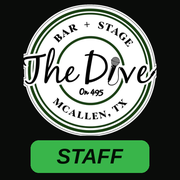
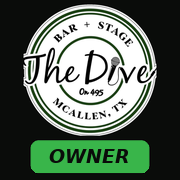
Owner list moves to /owner (old /staff redirects), group pages at /links/*, shared starting PIN with pick-your-name sign-in
Claude-Session: https://claude.ai/code/session_01X2WyYbJqvK9BdpUrXaAFZn

Changed region(s): [[0.25, 0.8056, 0.7222, 0.9167], [0.7778, 0.9444, 0.8056, 0.9722], [0.1944, 0.9444, 0.2222, 0.9722]]

diff --git a/server.js b/server.js
@@ -79,7 +79,7 @@ app.use(async (req, res, next) => {
   if (/^\/(setup|api\/setup|api\/billing|terms|logo\.png|[\w-]*icon[\w-]*\.png|[\w-]*apple-touch-icon\.png|[\w-]*manifest\.json|m\/|healthz)/.test(req.path)) return next();
   if (planSummary(t).active) return next();
   if (req.path.startsWith("/api/")) return res.status(402).json({ error: "inactive", message: "This karaoke system isn't active right now. Ask the host." });
-  if (/^\/(kj|stats|ads|history|staff|wheel|tv|tent|poster)\b/.test(req.path)) return res.redirect(BASE() + "/setup");
+  if (/^\/(kj|stats|ads|history|staff|owner|links|wheel|tv|tent|poster)\b/.test(req.path)) return res.redirect(BASE() + "/setup");
   res.status(402).type("html").send(simplePage(t.name, `<img src="${BASE()}/logo.png" alt=""><h1>${esc(t.name)}</h1><p>Karaoke sign-up isn't open right now. Ask the host, or check back soon.</p>`));
 });
 /* =====================================================================
@@ -157,7 +157,7 @@ function refreshPlan(t) {
 }
 
 /* ---------- branding: other bars get The Dive's pages with their own name, logo and links ---------- */
-const PATH_RE = /(["'`(])\/(?=(?:api\/|kj\b|wall\b|tv\b|tent\b|poster\b|history\b|stats\b|ads\b|terms\b|staff\b|wheel\b|setup\b|s\/|m\/|qr\.svg|logo\.png|songs\.json|sw\.js|install\.js|zoom\.js|update\.js|[\w-]*manifest\.json|[\w-]*icon[\w-]*\.png|[\w-]*apple-touch-icon\.png|\?|["'`)]))/g;
+const PATH_RE = /(["'`(])\/(?=(?:api\/|kj\b|wall\b|tv\b|tent\b|poster\b|history\b|stats\b|ads\b|terms\b|staff\b|owner\b|links\/|wheel\b|setup\b|s\/|m\/|qr\.svg|logo\.png|songs\.json|sw\.js|install\.js|zoom\.js|update\.js|[\w-]*manifest\.json|[\w-]*icon[\w-]*\.png|[\w-]*apple-touch-icon\.png|\?|["'`)]))/g;
 function brand(html, t, base, host) {
   if (t.house) return html;
   const name = t.name, short = t.short || t.name, tagWord = (short || name).replace(/[^A-Za-z0-9]/g, ""), city = t.city || "";
@@ -615,10 +615,15 @@ app.post("/api/auth/logout", (req, res) => { res.append("Set-Cookie", "dive_user
 // hosts: the owner PIN (KJ_PIN) can add hosts, each with their own name + PIN
 async function getHosts() { try { return JSON.parse((await db.getSetting("hosts")) || "[]"); } catch (e) { return []; } }
 const same = (a, b) => a.length === b.length && crypto.timingSafeEqual(Buffer.from(a), Buffer.from(b));
-async function whoIs(pin) {
+// starting PIN the owner can give every new DJ/staff login (set HOST_TEMP_PIN in Render). Several logins may share it
+// until they make their own, so signing in with it asks "which one are you?"
+const TEMP_PIN = String(process.env.HOST_TEMP_PIN || "").replace(/\D/g, "");
+async function whoIs(pin, name) {
   if (!pin) return null;
   if (T() === "dive" ? same(pin, KJ_PIN) : pinMatches(pin, TEN().pinHash)) return { name: "Owner", admin: true, role: "house" };
-  const h = (await getHosts()).find(x => same(pin, x.pin));
+  const hs = (await getHosts()).filter(x => same(pin, x.pin));
+  let h = hs[0];
+  if (hs.length > 1) { h = name ? hs.find(x => x.name === name) : null; if (!h) return { pick: hs.map(x => x.name) }; }
   return h ? { name: h.name, admin: false, own: h.own === true, agreed: h.agreed === HOST_TERMS_V, role: h.role === "staff" ? "staff" : "dj" } : null;
 }
 const pinTries = new Map();
@@ -626,7 +631,9 @@ async function kjAuth(req, res, next) {
   try {
     const t = Date.now(), l = (pinTries.get(req.ip) || []).filter(x => t - x < 600000);
     if (l.length >= 20) return res.status(429).json({ error: "Too many wrong PINs. Wait 10 minutes." });
-    const who = await whoIs(String(req.headers["x-kj-pin"] || ""));
+    let nm = ""; try{ nm = decodeURIComponent(String(req.headers["x-kj-name"] || "")); }catch(e){}
+    const who = await whoIs(String(req.headers["x-kj-pin"] || ""), nm);
+    if (who && who.pick) return res.status(409).json({ error: "Tap your name.", pickName: true, names: who.pick });
     if (!who) { l.push(t); pinTries.set(req.ip, l); return res.status(401).json({ error: "Wrong PIN." }); }
     if (who.role === "dj") { const bad = await djGate(req, who); if (bad) return res.status(bad.status).json(bad.body); }
     // DJ and staff logins start with a PIN the owner made; they must set their own before doing anything else
@@ -705,7 +712,7 @@ app.post("/api/kj/promos/remove", wrap(async (req, res) => {
 }));
 app.get("/api/kj/state", wrap(async (req, res) => {
   const djNow = await djSession();
-  res.json({ me: req.kj, hostTermsV: HOST_TERMS_V, lyrics: (await db.getSetting("lyrics")) !== "off", djOn: djNow ? djNow.name : null, multi: (await db.getSetting("multi")) === "on", open: (await db.getSetting("open")) !== "no", geofence: geofenceActive(await db.getSetting("geofence")), hasSpot: TEN().lat != null && TEN().lat !== "", tenant: tenantPublic(TEN()), plan: planSummary(TEN()), hostLimit: TEN().house ? null : HOST_LIMIT, pause: await pauseState(), phoneSignin: await authOn(), twilioReady: TW_READY, photoReview: await photoReview(), queue: await (async () => { const l = await db.active(); return withPhotosKJ(l.map(kjRow), l); })(), done: (await db.done(50)).map(kjRow) });
+  res.json({ me: req.kj, tempPin: req.kj.admin ? TEMP_PIN : "", hostTermsV: HOST_TERMS_V, lyrics: (await db.getSetting("lyrics")) !== "off", djOn: djNow ? djNow.name : null, multi: (await db.getSetting("multi")) === "on", open: (await db.getSetting("open")) !== "no", geofence: geofenceActive(await db.getSetting("geofence")), hasSpot: TEN().lat != null && TEN().lat !== "", tenant: tenantPublic(TEN()), plan: planSummary(TEN()), hostLimit: TEN().house ? null : HOST_LIMIT, pause: await pauseState(), phoneSignin: await authOn(), twilioReady: TW_READY, photoReview: await photoReview(), queue: await (async () => { const l = await db.active(); return withPhotosKJ(l.map(kjRow), l); })(), done: (await db.done(50)).map(kjRow) });
 }));
 // everything we know about the singer on this row: past songs, nights, ratings, posts
 app.post("/api/kj/photo/:id/remove", wrap(async (req, res) => {
@@ -797,11 +804,12 @@ const ownerOnly = (req, res, next) => req.kj && req.kj.admin ? next() : res.stat
 const staffOnly = (req, res, next) => req.kj && req.kj.role !== "dj" ? next() : res.status(403).json({ error: "Only staff can do that." });
 app.get("/api/kj/hosts", staffOnly, wrap(async (req, res) => { res.json({ hosts: (await getHosts()).map(h => ({ name: h.name, pin: "••" + h.pin.slice(-2), role: h.role === "staff" ? "staff" : "dj" })) }); }));
 app.post("/api/kj/hosts", ownerOnly, wrap(async (req, res) => {
-  const name = clean(req.body.name, 30), pin = String(req.body.pin || "").replace(/\D/g, "");
+  const name = clean(req.body.name, 30), pin = String(req.body.pin || "").replace(/\D/g, "") || TEMP_PIN;
   if (!name) return res.status(400).json({ error: "Enter the host's name." });
   if (pin.length < 4 || pin.length > 8) return res.status(400).json({ error: "PIN must be 4 to 8 digits." });
   const hosts = await getHosts();
-  if ((await whoIs(pin)) || hosts.some(h => h.pin === pin)) return res.status(409).json({ error: "That PIN is already used. Pick another." });
+  const isTemp = !!TEMP_PIN && pin === TEMP_PIN;
+  if (isTemp ? (await whoIs(pin) || {}).admin : ((await whoIs(pin)) || hosts.some(h => h.pin === pin))) return res.status(409).json({ error: "That PIN is already used. Pick another." });
   if (T() !== "dive" && req.body.role !== "staff" && hosts.filter(h => h.role !== "staff").length >= HOST_LIMIT) return res.status(403).json({ error: "Your plan includes " + HOST_LIMIT + " DJ logins. Remove one to add another." });
   if (hosts.some(h => h.name.toLowerCase() === name.toLowerCase())) return res.status(409).json({ error: "There's already a host with that name." });
   hosts.push({ name, pin, own: false, role: req.body.role === "staff" ? "staff" : "dj" }); await db.setSetting("hosts", JSON.stringify(hosts)); res.json({ ok: true });
@@ -817,17 +825,18 @@ app.post("/api/kj/my-pin", wrap(async (req, res) => {
   if (req.kj.admin) return res.status(400).json({ error: T() === "dive" ? "The owner PIN is changed in Render (KJ_PIN)." : "Change the owner PIN on the Setup page." });
   const pin = String(req.body.pin || "").replace(/\D/g, ""), hosts = await getHosts();
   if (pin.length < 4 || pin.length > 8) return res.status(400).json({ error: "PIN must be 4 to 8 digits." });
+  if (TEMP_PIN && pin === TEMP_PIN) return res.status(409).json({ error: "That's the starting PIN. Pick your own." });
   const taken = await whoIs(pin);
   if ((taken && taken.admin) || hosts.some(h => h.pin === pin && h.name !== req.kj.name)) return res.status(409).json({ error: "That PIN is taken. Pick another." });
   const me = hosts.find(h => h.name === req.kj.name); if (!me) return res.status(404).json({ error: "Host not found." });
   me.pin = pin; me.own = true; await db.setSetting("hosts", JSON.stringify(hosts)); res.json({ ok: true });
 }));
 app.post("/api/kj/hosts/reset", staffOnly, wrap(async (req, res) => {
-  const name = String(req.body.name || ""), pin = String(req.body.pin || "").replace(/\D/g, ""), hosts = await getHosts();
+  const name = String(req.body.name || ""), pin = String(req.body.pin || "").replace(/\D/g, "") || TEMP_PIN, hosts = await getHosts();
   const h = hosts.find(x => x.name === name); if (!h) return res.status(404).json({ error: "Login not found." });
   if (pin.length < 4 || pin.length > 8) return res.status(400).json({ error: "PIN must be 4 to 8 digits." });
-  const taken = await whoIs(pin);
-  if ((taken && taken.admin) || hosts.some(x => x.pin === pin && x.name !== name)) return res.status(409).json({ error: "That PIN is already used. Pick another." });
+  const taken = await whoIs(pin), isTemp = !!TEMP_PIN && pin === TEMP_PIN;
+  if ((taken && taken.admin) || (!isTemp && hosts.some(x => x.pin === pin && x.name !== name))) return res.status(409).json({ error: "That PIN is already used. Pick another." });
   h.pin = pin; h.own = false; await db.setSetting("hosts", JSON.stringify(hosts));
   await endDj(name, "Your PIN was reset. Sign in with the new PIN and change it.");
   res.json({ ok: true });
@@ -1162,7 +1171,7 @@ async function ownerAuth(req, res) {
 const ownerView = (t, req) => ({ slug: t.slug, type: t.type || "bar", name: t.name, short: t.short, city: t.city || "", address: t.address || "", email: t.email || "",
   lat: t.lat ?? null, lng: t.lng ?? null, radius: t.radius || 150, tz: t.tz || "America/Chicago", venue: t.venue || "", tags: t.tags || {}, logo: t.logo || "", hasLogo: !!t.logo,
   plan: planSummary(t), price: PRICE_TEXT, cardReady: !!(STRIPE.key && STRIPE.price), paid: !!(t.stripe && t.stripe.customer), hostLimit: HOST_LIMIT,
-  links: { app: siteUrl(req) + BASE() + "/", kj: siteUrl(req) + BASE() + "/kj", tv: siteUrl(req) + BASE() + "/tv", poster: siteUrl(req) + BASE() + "/poster", staff: siteUrl(req) + BASE() + "/staff" } });
+  links: { app: siteUrl(req) + BASE() + "/", kj: siteUrl(req) + BASE() + "/kj", tv: siteUrl(req) + BASE() + "/tv", poster: siteUrl(req) + BASE() + "/poster", staff: siteUrl(req) + BASE() + "/owner" } });
 app.post("/api/setup/me", wrap(async (req, res) => { const t = await ownerAuth(req, res); if (t) res.json(ownerView(t, req)); }));
 app.post("/api/setup/save", wrap(async (req, res) => {
   const t = await ownerAuth(req, res); if (!t) return;
@@ -1237,7 +1246,7 @@ app.post("/api/kj/venue", wrap(async (req, res) => {
 
 /* ---------- pages ---------- */
 // HTML pages: sent as-is for The Dive, re-branded for other bars and DJs
-const PAGES = { "/": "index.html", "/kj": "kj.html", "/poster": "poster.html", "/tent": "tent.html", "/terms": "terms.html", "/staff": "staff.html", "/setup": "setup.html", "/start": "start.html" };
+const PAGES = { "/": "index.html", "/kj": "kj.html", "/poster": "poster.html", "/tent": "tent.html", "/terms": "terms.html", "/owner": "staff.html", "/setup": "setup.html", "/start": "start.html" };
 // extra pages that each install as their own app (own name + icon)
 const APPS = {
   "/stats": { file: "stats.html", key: "stats", name: "The Dive Analytics", short: "Dive Stats" },
@@ -1258,6 +1267,10 @@ Object.entries(APPS).forEach(([route, a]) => {
   ["-icon-192.png", "-icon-512.png", "-apple-touch-icon.png"].forEach(sfx => app.get("/" + a.key + sfx, (req, res) => sendLogo(req, res, a.key + sfx)));
   app.get(route, (req, res) => sendPage(req, res, a.file, a));
 });
+// the owner's list lives at /owner; staff, DJs and guests only get the group links the owner sends (/links/dj ...)
+const LINK_GROUPS = ["customers", "dj", "staff"];
+app.get("/staff", (req, res) => { const g = String(req.query.for || ""); res.redirect(301, BASE() + (LINK_GROUPS.includes(g) ? "/links/" + g : "/owner")); });
+app.get("/links/:group", (req, res) => LINK_GROUPS.includes(req.params.group) ? sendPage(req, res, "staff.html") : res.redirect(BASE() + "/"));
 Object.entries(PAGES).forEach(([route, file]) => app.get(route, (req, res) => {
   if (route === "/start" && !TEN().house) return res.redirect("/start");          // sign-up is only on the main site
   if (route === "/setup" && TEN().house) return res.redirect("/kj");             // The Dive is set up in Render

diff --git a/kj.html b/kj.html
@@ -35,6 +35,8 @@ h2 span{font-family:var(--body);font-weight:500;letter-spacing:0;text-transform:
 .sgrid b{display:block;font-family:var(--slab);font-size:20px;font-variant-numeric:tabular-nums}
 .sgrid span{font-size:11px;color:var(--ink-2);line-height:1.2;display:block}
 .singer .note{font-size:14px;margin:0}
+.namepick{display:flex;flex-wrap:wrap;gap:8px;margin:0 0 12px}
+.namepick p{width:100%;margin:0;color:var(--ink-2);font-size:14px}
 .forcepin{position:fixed;inset:0;z-index:80;background:rgba(0,0,0,.9);display:grid;place-items:center;padding:16px}
 .fpbox{width:100%;max-width:360px;background:var(--panel);border:2px solid var(--green);border-radius:18px;padding:20px;display:flex;flex-direction:column;gap:10px}
 .fpbox h2{margin:0}.fpbox p{margin:0;color:var(--ink-2);font-size:14px}
@@ -161,6 +163,7 @@ a{color:var(--green-hi)}
     <form id="pinForm" novalidate>
       <input id="pin" inputmode="numeric" autocomplete="off" maxlength="12" aria-label="KJ PIN">
       <p class="err" id="pinErr" role="alert"></p>
+      <div class="namepick" id="namePick" hidden></div>
       <button class="next" type="submit" style="width:100%">Open queue</button>
     </form>
   </section>
@@ -243,7 +246,7 @@ a{color:var(--green-hi)}
         <a href="/stats">Analytics</a>
         <a href="/history">Customer history</a>
         <a href="/ads">Daily ads</a>
-        <a href="/staff">Staff list</a>
+        <a href="/owner" id="ownerLink" hidden>Owner list</a>
         <a href="/wheel" target="_blank" rel="noopener">Spin wheel</a>
         <a href="/wall" target="_blank" rel="noopener">Wall of fame</a>
         <a href="/tv" target="_blank" rel="noopener">TV screen to cast</a>
@@ -303,6 +306,7 @@ a{color:var(--green-hi)}
 const $ = id => document.getElementById(id);
 let pin = "", state = null, timer = null;
 try{ pin = sessionStorage.getItem("kj_pin") || ""; }catch(e){}
+let pinName = ""; try{ pinName = sessionStorage.getItem("kj_name") || ""; }catch(e){}
 
 let loginTry = false, loginWhere = null, djWatch = null, djLastSent = 0;
 function getWhere(){ return new Promise((ok, bad) => { if(!navigator.geolocation) return bad(new Error("none")); navigator.geolocation.getCurrentPosition(p => ok({ lat: p.coords.latitude, lng: p.coords.longitude, acc: Math.round(p.coords.accuracy) }), bad, { enableHighAccuracy: true, timeout: 15000, maximumAge: 30000 }); }); }
@@ -315,7 +319,7 @@ function startDjWatch(){
   }, () => {}, { enableHighAccuracy: true, maximumAge: 30000 });
 }
 async function api(path, body){
-  const h = { "Content-Type": "application/json", "x-kj-pin": pin }; if(loginTry) h["x-kj-login"] = "1";
+  const h = { "Content-Type": "application/json", "x-kj-pin": pin }; if(loginTry) h["x-kj-login"] = "1"; if(pinName) h["x-kj-name"] = encodeURIComponent(pinName);
   if(loginTry && loginWhere){ h["x-kj-lat"] = loginWhere.lat; h["x-kj-lng"] = loginWhere.lng; h["x-kj-acc"] = loginWhere.acc; }
   const r = await fetch(path, { method: body === undefined ? "GET" : "POST", cache: "no-store", headers: h, body: body === undefined ? undefined : JSON.stringify(body) });
   const j = await r.json().catch(() => ({}));
@@ -325,7 +329,7 @@ async function api(path, body){
   if(!r.ok){ const er = new Error(j.error || "Something went wrong. Try again."); er.data = j; throw er; }
   return j;
 }
-function logout(msg){ stopDjWatch(); pin = ""; $("forcePin").hidden = true; try{ sessionStorage.removeItem("kj_pin"); }catch(e){} $("panel").hidden = true; $("login").hidden = false; $("pinErr").textContent = msg || ""; clearInterval(timer); }
+function logout(msg){ stopDjWatch(); pin = ""; pinName = ""; try{ sessionStorage.removeItem("kj_name"); }catch(e){} $("forcePin").hidden = true; try{ sessionStorage.removeItem("kj_pin"); }catch(e){} $("panel").hidden = true; $("login").hidden = false; $("pinErr").textContent = msg || ""; clearInterval(timer); }
 async function load(){
   try{ state = await api("/api/kj/state"); render(); startDjWatch(); $("err").textContent = ""; }
   catch(e){ if(e.message !== "pin") $("err").textContent = "Lost connection. Retrying…"; }
@@ -501,7 +505,7 @@ function start(){ $("login").hidden = true; $("panel").hidden = false; load(); s
 $("pinForm").addEventListener("submit", async e => {
   e.preventDefault(); const v = $("pin").value.trim();
   if(!v){ $("pinErr").textContent = "Enter the PIN."; return; }
-  pin = v;
+  if(pin !== v){ pinName = ""; } pin = v; $("namePick").hidden = true;
   loginTry = true; loginWhere = null;
   try{
     try{ await api("/api/kj/state"); }
@@ -511,9 +515,15 @@ $("pinForm").addEventListener("submit", async e => {
       try{ loginWhere = await getWhere(); }catch(g){ throw new Error("DJs sign in from the bar. Allow location for this site and try again."); }
       await api("/api/kj/state");
     }
-    try{ sessionStorage.setItem("kj_pin", pin); }catch(e){} $("pinErr").textContent = ""; loginTry = false; loginWhere = null; start();
+    try{ sessionStorage.setItem("kj_pin", pin); sessionStorage.setItem("kj_name", pinName); }catch(e){} $("pinErr").textContent = ""; loginTry = false; loginWhere = null; start();
   }
-  catch(e){ loginTry = false; loginWhere = null; if(e.message !== "pin") $("pinErr").textContent = e.data ? e.message : (e.message.startsWith("DJs") ? e.message : "Couldn't reach the server. Try again."); }
+  catch(e){ loginTry = false; loginWhere = null;
+    // starting PIN shared by several new logins: ask which one they are
+    if(e.data && e.data.pickName){
+      const box = $("namePick"); box.innerHTML = "<p>That's a starting PIN. Tap your name:</p>"; box.hidden = false; $("pinErr").textContent = "";
+      e.data.names.forEach(n => { const b = document.createElement("button"); b.type = "button"; b.textContent = n; b.addEventListener("click", () => { pinName = n; box.hidden = true; $("pinForm").requestSubmit ? $("pinForm").requestSubmit() : $("pinForm").dispatchEvent(new Event("submit")); }); box.appendChild(b); });
+      return;
+    } if(e.message !== "pin") $("pinErr").textContent = e.data ? e.message : (e.message.startsWith("DJs") ? e.message : "Couldn't reach the server. Try again."); }
 });
 $("pin").addEventListener("input", () => $("pinErr").textContent = "");
 $("nextBtn").addEventListener("click", () => act("/api/kj/next"));
@@ -572,7 +582,7 @@ async function loadHosts(){
       });
       const rs = document.createElement("button"); rs.textContent = "Reset PIN";
       rs.addEventListener("click", async () => {
-        const np = prompt("New temporary PIN for " + h.name + " (4 to 8 digits). They'll have to change it before taking tips.");
+        const np = prompt("New starting PIN for " + h.name + " (4 to 8 digits). They'll make their own when they sign in.", (state && state.tempPin) || "");
         if(np === null) return;
         try{ await api("/api/kj/hosts/reset", { name: h.name, pin: np.trim() }); loadHosts(); alert(h.name + "'s PIN is reset. Their DJ session was closed."); }
         catch(err){ if(err.message !== "pin") alert(err.message); }
@@ -615,6 +625,8 @@ $("venueSave").addEventListener("click", () => {
 function paintMe(){
   if(!state || !state.me) return;
   $("meLine").textContent = "Signed in as " + state.me.name;
+  $("ownerLink").hidden = !state.me.admin;
+  $("hostPin").placeholder = state.tempPin ? "Start PIN " + state.tempPin : "PIN";
   $("hostsCard").hidden = state.me.role === "dj"; $("hostForm").hidden = !state.me.admin;
   $("myPinBtn").hidden = state.me.admin;
   $("meLine").textContent = "Signed in as " + state.me.name + (state.me.role === "staff" ? " (staff)" : state.me.role === "dj" ? " (DJ)" : " (house)");
@@ -624,8 +636,8 @@ $("hostForm").addEventListener("submit", async e => {
   e.preventDefault(); $("hostErr").textContent = "";
   const name = $("hostName").value.trim(), pin = $("hostPin").value.trim();
   if(!name){ $("hostErr").textContent = "Enter the host's name."; return; }
-  if(!/^\d{4,8}$/.test(pin)){ $("hostErr").textContent = "PIN must be 4 to 8 digits."; return; }
-  try{ await api("/api/kj/hosts", { name, pin, role: $("hostRole").value }); $("hostName").value = ""; $("hostPin").value = ""; loadHosts(); }
+  if(!(pin === "" && state && state.tempPin) && !/^\d{4,8}$/.test(pin)){ $("hostErr").textContent = "PIN must be 4 to 8 digits."; return; }
+  try{ await api("/api/kj/hosts", { name, pin: pin || (state && state.tempPin) || "", role: $("hostRole").value }); $("hostName").value = ""; $("hostPin").value = ""; loadHosts(); }
   catch(err){ $("hostErr").textContent = err.message; }
 });
 $("fpForm").addEventListener("submit", async e => {

diff --git a/staff.html b/staff.html
@@ -3,12 +3,12 @@
 <head>
 <meta charset="utf-8">
 <meta name="viewport" content="width=device-width,initial-scale=1,viewport-fit=cover">
-<title>Dive Staff</title>
+<title>Dive Owner</title>
 <link rel="icon" href="/logo.png">
 <link rel="manifest" href="/staff-manifest.json">
 <link rel="apple-touch-icon" href="/staff-apple-touch-icon.png">
 <meta name="apple-mobile-web-app-capable" content="yes">
-<meta name="apple-mobile-web-app-title" content="Dive Staff">
+<meta name="apple-mobile-web-app-title" content="Dive Owner">
 <meta name="theme-color" content="#0a0c0a">
 <link rel="stylesheet" href="https://fonts.googleapis.com/css2?family=Roboto+Slab:wght@700;800&family=Outfit:wght@400;500;600&display=swap">
 <style>
@@ -56,7 +56,7 @@ ol,ul{margin:0;padding-left:20px;display:flex;flex-direction:column;gap:4px}
 .cpt{background:none;border:0;color:var(--ink-2);font:inherit;font-size:12px;text-decoration:underline;cursor:pointer;padding:2px}
 /* a shared group link: just that group's links, no owner controls */
 body.shared .group{border-left:0;padding-left:0}
-body.shared .ghd p,body.shared .gbtns,body.shared .ownonly,body.shared #copyAll,body.shared #relock,body.shared #intro{display:none!important}
+body.shared #installBar,body.shared .ghd p,body.shared .gbtns,body.shared .ownonly,body.shared #copyAll,body.shared #relock,body.shared #intro{display:none!important}
 
 :root{--panel-2:#1b211b;--wall:#0a0c0a}
 .brand{display:flex;align-items:center;gap:12px}.brand img{width:52px}
@@ -86,7 +86,7 @@ body.shared .ghd p,body.shared .gbtns,body.shared .ownonly,body.shared #copyAll,
   <form class="lbox" id="lockForm" novalidate>
     <img src="/logo.png" alt="">
     <h1>Owner only</h1>
-    <p>Enter your list PIN to open the staff list.</p>
+    <p>Enter your list PIN to open the owner list.</p>
     <input id="lockPin" type="password" inputmode="numeric" maxlength="8" autocomplete="current-password" aria-label="List PIN" placeholder="List PIN">
     <button type="submit" class="copyall">Open</button>
     <p class="err" id="lockErr" role="alert"></p>
@@ -95,12 +95,12 @@ body.shared .ghd p,body.shared .gbtns,body.shared .ownonly,body.shared #copyAll,
 <main id="main" hidden>
   <div class="install" id="installBar" hidden>
     <img src="/staff-icon-192.png" alt="">
-    <div class="tx"><b>Get the Dive Staff app</b><span id="installHow">Open the staff list in one tap.</span></div>
+    <div class="tx"><b>Get the Dive Owner app</b><span id="installHow">Open your owner list in one tap.</span></div>
     <button id="installBtn" type="button">Add</button>
     <button class="x" id="installX" type="button" aria-label="Hide">×</button>
   </div>
   <header>
-    <div class="brand"><img src="/logo.png" alt="The Dive on 495"><h1 id="pageTitle">Karaoke Staff List</h1></div>
+    <div class="brand"><img src="/logo.png" alt="The Dive on 495"><h1 id="pageTitle">Karaoke Owner List</h1></div>
     <button class="copyall" id="copyAll" type="button">Copy whole list</button>
     <button class="lockbtn" id="relock" type="button">🔒 Lock this list</button>
     <p class="msg" id="msg" role="status"></p>
@@ -193,10 +193,11 @@ async function isOwner(p){
 }
 function openList(){ $("lock").hidden = true; $("main").hidden = false; }
 function showLock(t){ $("main").hidden = true; $("lock").hidden = false; $("lockErr").textContent = t || ""; $("lockPin").value = ""; $("lockPin").focus(); }
-const SHARED = { customers: "Karaoke Links", dj: "DJ Links", staff: "Staff Links" }[new URLSearchParams(location.search).get("for")];
+const LINK_KEY = (location.pathname.match(/\/links\/(customers|dj|staff)\/?$/) || [])[1] || new URLSearchParams(location.search).get("for");
+const SHARED = { customers: "Karaoke Links", dj: "DJ Links", staff: "Staff Links" }[LINK_KEY];
 if(SHARED){
   // someone opened a group link the owner sent: show only that group, no PIN needed
-  const key = new URLSearchParams(location.search).get("for");
+  const key = LINK_KEY;
   document.body.classList.add("shared"); $("pageTitle").textContent = SHARED; document.title = SHARED + " · The Dive";
   document.querySelectorAll(".group").forEach(g => { g.hidden = g.dataset.key !== key; });
   openList();
@@ -246,7 +247,8 @@ async function copy(text, btn, label){
 }
 document.getElementById("copyAll").addEventListener("click", e => copy(plain(), e.currentTarget, "Whole list"));
 // Send: shares one link that opens just this group's links, same look as this page
-const groupUrl = g => location.origin + location.pathname + "?for=" + g.dataset.key;
+const BASE_PATH = (location.pathname.match(/^\/b\/[a-z0-9-]+/) || [""])[0];
+const groupUrl = g => location.origin + BASE_PATH + "/links/" + g.dataset.key;
 document.querySelectorAll(".cpg").forEach(b => b.addEventListener("click", async () => {
   const g = b.closest(".group"), url = groupUrl(g), title = "The Dive karaoke: " + g.querySelector("h3").textContent.replace(/^\W+/, "").trim();
   if(navigator.share){ try{ await navigator.share({ title, text: title, url }); msg.textContent = g.dataset.who + " link sent."; return; }catch(e){ if(e && e.name === "AbortError") return; } }
@@ -268,7 +270,7 @@ if("serviceWorker" in navigator) navigator.serviceWorker.register("/sw.js").catc
   const ios = /iphone|ipad|ipod/i.test(navigator.userAgent), iosChrome = ios && /CriOS/i.test(navigator.userAgent);
   if(iosChrome){ $("iosGuide").classList.add("top"); $("iosShareWhere").textContent = "at the top right"; }
   let promptEvt = null;
-  window.addEventListener("beforeinstallprompt", e => { e.preventDefault(); promptEvt = e; $("installBar").hidden = false; $("installHow").textContent = "Open the staff list in one tap."; $("installBtn").hidden = false; });
+  window.addEventListener("beforeinstallprompt", e => { e.preventDefault(); promptEvt = e; $("installBar").hidden = false; $("installHow").textContent = "Open your owner list in one tap."; $("installBtn").hidden = false; });
   if(ios){ $("installBar").hidden = false; }
   $("installBtn").addEventListener("click", async () => {
     if(ios){ $("iosGuide").hidden = false; return; }

diff --git a/setup.html b/setup.html
@@ -154,7 +154,7 @@ function paint(j){
   $("price").textContent = j.price; $("payBtn").hidden = p.paid || !j.cardReady; $("portalBtn").hidden = !j.paid;
   if(!j.cardReady && !p.paid) $("planHint").textContent += " Card payments aren't turned on yet. Ask Stemo Enterprises for a code.";
   const L = $("links"); L.innerHTML = "";
-  [["Customer sign-up", j.links.app], ["Host page", j.links.kj], ["TV screen", j.links.tv], ["QR poster", j.links.poster], ["Staff list", j.links.staff]].forEach(([label, url]) => {
+  [["Customer sign-up", j.links.app], ["Host page", j.links.kj], ["TV screen", j.links.tv], ["QR poster", j.links.poster], ["Owner list", j.links.staff]].forEach(([label, url]) => {
     const a = document.createElement("a"); a.href = url; a.target = "_blank"; a.rel = "noopener";
     const b = document.createElement("b"); b.textContent = label; const s = document.createElement("span"); s.textContent = url.replace(/^https?:\/\//, "");
     a.append(b, s); L.appendChild(a);

diff --git a/sw.js b/sw.js
@@ -1,5 +1,5 @@
 // The Dive Karaoke: keeps the app shell on the phone so it opens fast; live data always comes from the server.
-const CACHE = "dive-v39";
+const CACHE = "dive-v40";
 const SHELL = ["/", "/kj", "/logo.png", "/songs.json", "/manifest.json", "/icon-192.png"];
 self.addEventListener("install", e => { e.waitUntil(caches.open(CACHE).then(c => c.addAll(SHELL)).catch(() => {})); self.skipWaiting(); });
 self.addEventListener("activate", e => { e.waitUntil(caches.keys().then(ks => Promise.all(ks.filter(k => k !== CACHE).map(k => caches.delete(k))))); self.clients.claim(); });

diff --git a/README.md b/README.md
@@ -43,9 +43,10 @@ Guests scan a QR code (or open the link), sign up for a song, and watch their pl
 - Start a new night: clears the line and keeps all history.
 - **Separate host logins:** the owner adds hosts, each with their own PIN, and hosts can change their own PIN.
 - **Starting PINs:** the owner gives each DJ and staff login a starting PIN. On first sign-in they must make their own PIN before anything else works. A PIN reset puts them back to that step.
+- **Shared starting PIN:** set `HOST_TEMP_PIN` in Render. New logins and PIN resets use it when the owner leaves the PIN blank. Several logins can share it until they make their own; signing in with it shows a "Tap your name" step. Nobody can keep it as their own PIN.
 - **Host, DJ & Staff Terms:** on first sign-in (and whenever `HOST_TERMS_V` changes) DJs and staff must check a box agreeing to the host terms (terms page, `#hostterms`). Acceptance (version, time, IP) is saved on their login.
 - **Tip money:** the house PIN sees every DJ's tips and a per-DJ total (Tips card and Analytics). Each DJ sees only their own. Staff see none.
-- **Staff list (`/staff`) is owner-only:** opens with the list PIN (`STAFF_LIST_PIN` in Render; other bars use their owner PIN). Each group (Customers, DJs, House staff) has its own copy button.
+- **Owner list (`/owner`) is owner-only:** opens with the list PIN (`STAFF_LIST_PIN` in Render; other bars use their owner PIN). Each group (Customers, DJs, House staff) has a Send button that shares a link to just that group's page (`/links/customers`, `/links/dj`, `/links/staff`), no PIN needed. Old `/staff` links redirect.
 
 ### Other pages
 | Page | What it's for | PIN |
@@ -57,7 +58,8 @@ Guests scan a QR code (or open the link), sign up for a song, and watch their pl
 | `/stats` | Analytics: songs, singers, regulars, busiest hours, top singers, songs and artists | host |
 | `/ads` | Make daily ads (headline, picture, days of week, dates) | host |
 | `/history` | Customer history with posted icons | host |
-| `/staff` | Staff quick list with live links and one-tap copy | – |
+| `/owner` | Owner list (list PIN): every link, grouped, with Send buttons | – |
+| `/links/dj`, `/links/staff`, `/links/customers` | The group pages the owner sends | – |
 | `/terms` | Terms of Use and Privacy Notice | – |
 | `/s/:id` | Share card used by the Facebook icon | – |
 
@@ -134,7 +136,8 @@ Both directions are signed with **the same secret**: My Apps calls it `APP_SECRE
 |---|---|---|
 | `DATABASE_URL` | yes | Internal Database URL of `karaoke-db` (starts with `postgresql://`) |
 | `KJ_PIN` | yes | The Dive's house PIN (set in Render only; never write it here) |
-| `STAFF_LIST_PIN` | no | PIN that opens the owner-only staff list (`/staff`). Falls back to `KJ_PIN`. Set in Render only. |
+| `STAFF_LIST_PIN` | no | PIN that opens the owner list (`/owner`). Falls back to `KJ_PIN`. Set in Render only. |
+| `HOST_TEMP_PIN` | no | Shared starting PIN for new DJ and staff logins. Set in Render only. |
 | `SESSION_SECRET` | no | Signs login cookies. Made automatically and saved if blank. |
 | `PUBLIC_URL` | no | Custom domain for QR codes and links, for example `https://karaoke.example.com` |
 | `BAR_LAT`, `BAR_LNG`, `GEOFENCE_M` | no | The Dive's location check (defaults: 26.2183801, -98.2287714, 150) |
